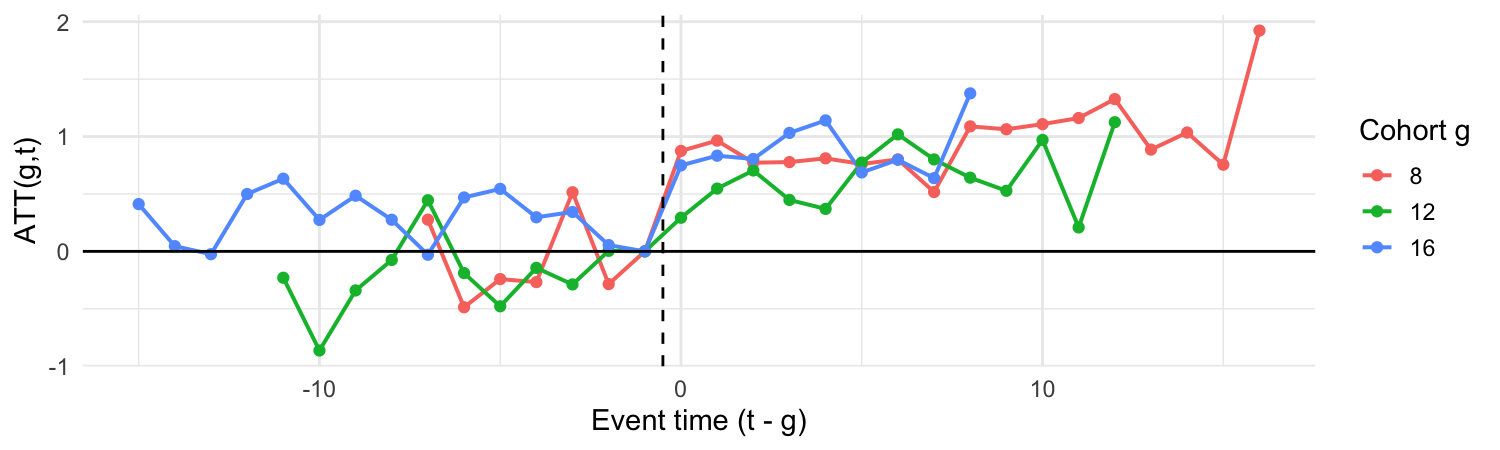
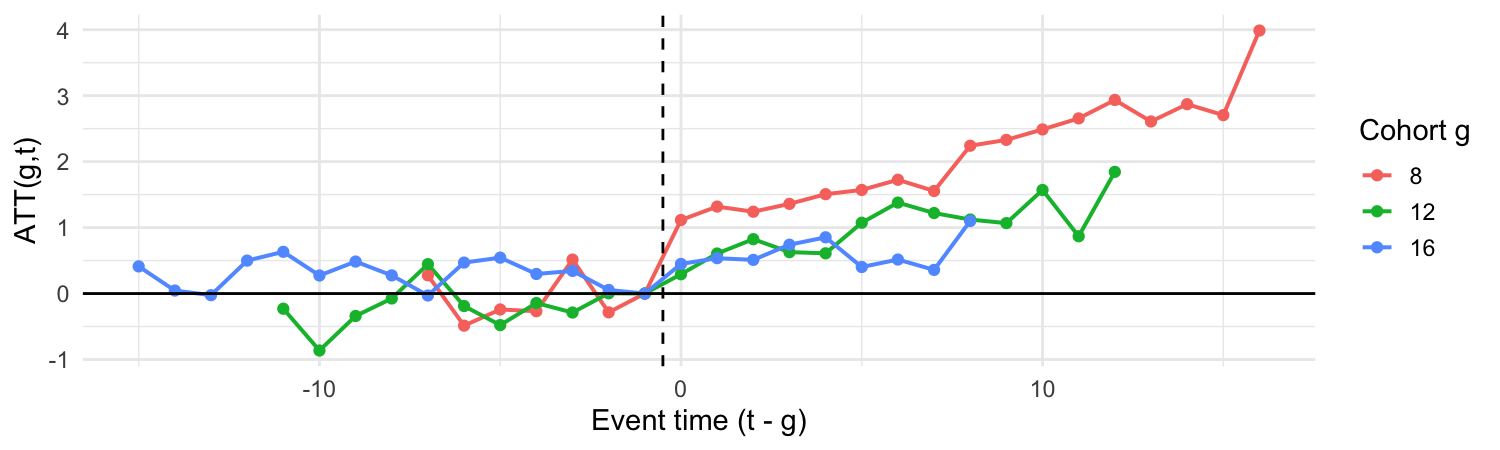
M8 review pass: amplify staggered-DiD bias, clarify SC, fix back-links, polish prose
After review:
- Staggered DGP: amplify cohort and event-time heterogeneity so TWFE bias
  becomes visually obvious. Truth ~1.43, TWFE ~0.82, modern estimators
  recover the truth.
- Slide 9 (Bacon decomposition viz): rewrite as a pedagogical bar chart
  with reference lines for Truth and TWFE; relabel bars as "treated g=X,
  control g=Y" (no more cryptic "g=8 vs g=16"); group by clean vs
  forbidden 2x2s. Lead-in explicitly names what's being shown ("a
  weighted average of every 2x2 DiD").
- Slide 15: legend identifies the red line as "Treated city" and grey
  as "Donor pool"; "policy" annotation marks the treatment date.
- Slide 16: synthetic counterfactual is now plotted (treated red, synth
  blue dashed) with the formula above and a code-backup link.
- Slide 23 (policy learning): rewrite "regret bounds for these rules"
  as the more readable "near-optimal policies" with an actual
  explanation of what the bound means.
- Slide 7: DGP-code button moved to bottom-right (`.nav-btn-br`) so it
  doesn't sit alone in empty bottom-left space.
- Slide 32 (Roth pretrend backup): trim lead-in and shrink plot so the
  closing line fits.
- Backup back-links: replace auto-slug anchors (which broke on em-dash
  and apostrophe titles) with explicit `name:` anchors on every main
  slide that has a backup. All "← back" buttons now resolve.
- Apply LaTeX-in-prose-parens / LaTeX-in-`.small[]` rule across the
  deck: rewrite inline `$...$` as plain text in the CS estimator table,
[…]

Changed region(s): [[0.0307, 0.0311, 0.8893, 0.7778], [0.0307, 0.7778, 0.0613, 0.8089]]

diff --git a/module-08/slides.html b/module-08/slides.html
@@ -148,6 +148,8 @@ It's an assumption about *counterfactuals* — fundamentally untestable. We can 
 
 ---
 
+name: staggered-main
+
 # Staggered Adoption — What Changes
 
 Real rollouts don't happen all at once. Cities adopt zone-notification at different times.
@@ -156,9 +158,11 @@ Real rollouts don't happen all at once. Cities adopt zone-notification at differ
 
 Three cohorts adopt at `\(t=8, 12, 16\)`; three never adopt. The effect grows over time and is **larger for earlier-adopting cohorts**.
 
-&lt;a href="#staggered-dgp-detail" class="nav-btn"&gt;DGP code&lt;/a&gt;
+&lt;a href="#staggered-dgp-detail" class="nav-btn-br"&gt;DGP code&lt;/a&gt;
 
 ---
+
+name: twfe-main
 
 # The TWFE Estimator — Looks Innocent, Isn't
 
@@ -174,7 +178,7 @@ coef(fit_twfe)["treatedTRUE"]
 
 ```
 ## treatedTRUE 
-##   0.7426994
+##    0.822057
 ```
 
 --
@@ -192,11 +196,15 @@ The true effects are positive and grow over time. The TWFE coefficient is wrong 
 
 ---
 
+name: bacon-viz-main
+
 # Visualizing the Bacon Decomposition
+
+`\(\hat\beta_{\text{TWFE}}\)` is a **weighted average of every 2×2 DiD** in the data — each cohort vs every other cohort, plus each vs never-treated. With cohorts `\(g \in \{8, 12, 16, \infty\}\)`, that's **9 distinct 2×2 estimates**:
 
 &lt;img src="slides_files/figure-html/bacon-viz-1.png" style="display: block; margin: auto;" /&gt;
 
-Red bars: when an *already-treated* cohort serves as the comparison, you difference out a treated trend. TWFE puts weight on these.
+The **red 2×2s** use an already-treated cohort as control — they difference out a treated trend, not a counterfactual. TWFE (dotted) averages them in anyway, landing far below truth (dashed). &lt;a href="#goodman-bacon-derivation" class="inline-btn"&gt;why&lt;/a&gt;
 
 ---
 
@@ -207,10 +215,10 @@ All four heterogeneity-robust estimators solve the same problem — only use **c
 .small[
 | Estimator | Year | Core idea | R package |
 |---|---|---|---|
-| **Callaway &amp; Sant'Anna** | 2021 | Group-time ATT `\((g, t)\)`, then aggregate | `did` |
+| **Callaway &amp; Sant'Anna** | 2021 | Group-time ATT for each cohort g and time t, then aggregate | `did` |
 | **Sun &amp; Abraham** | 2021 | Saturated event-study with cohort×event-time interactions | `fixest` (`sunab()`) |
 | **de Chaisemartin &amp; D'Haultfœuille** | 2020 | Switchers vs not-yet-switchers | `DIDmultiplegt` |
-| **Borusyak, Jaravel, Spiess** | 2024 | Impute `\(Y(0)\)` from never-treated, then average residuals | `didimputation` |
+| **Borusyak, Jaravel, Spiess** | 2024 | Impute the untreated outcome from never-treated, then average residuals | `didimputation` |
 ]
 
 .highlight-box[
@@ -218,6 +226,8 @@ All four converge in simple cases. Pick one, report the event-study plot, and ch
 ]
 
 ---
+
+name: cs-main
 
 # Callaway-Sant'Anna in Practice
 
@@ -241,10 +251,10 @@ Pretrend tests have low power. What if parallel trends is "almost but not quite"
 --
 
 Two common restrictions:
-- **Smoothness ($M$):** the post-treatment violation can be at most `\(M\)` times larger than the largest pre-treatment violation.
+- **Smoothness, parameter M:** the post-treatment violation can be at most M times larger than the largest pre-treatment violation.
 - **Relative magnitudes:** the post-period violation cannot exceed the worst pre-period violation.
 
-The output is a *sensitivity plot*: the CI grows as you allow more violation. If your conclusion survives plausible `\(M\)`, you're robust.
+The output is a *sensitivity plot*: the CI grows as you allow more violation. If your conclusion survives plausible M, you're robust.
 
 &lt;a href="#honest-did-detail" class="nav-btn"&gt;visualization&lt;/a&gt;
 
@@ -258,10 +268,10 @@ Three city cohorts adopt zone-notification at `\(t=8, 12, 16\)`. The true effect
 
 |Estimator                 | Estimate|
 |:-------------------------|--------:|
-|Truth                     |    0.869|
-|TWFE (biased)             |    0.743|
-|Sun-Abraham               |    0.849|
-|Callaway-Sant'Anna (hand) |    0.849|
+|Truth                     |    1.425|
+|TWFE (biased)             |    0.822|
+|Sun-Abraham               |    1.405|
+|Callaway-Sant'Anna (hand) |    1.405|
 ]
 
 TWFE is downward-biased — early cohorts (with the largest effects) get re-used as controls for later cohorts, dragging the estimate down. CS and SA recover the truth.
@@ -284,35 +294,19 @@ No single donor matches. A **convex combination** might.
 
 ---
 
+name: sc-est-main
+
 # Synthetic Control: The Estimator
 
-Choose weights `\(w_j \ge 0\)` with `\(\sum_j w_j = 1\)` to match the treated unit's *pre-treatment* outcomes:
+Pick weights `\(w_j \ge 0\)` with `\(\sum_j w_j = 1\)` to match the treated unit's *pre-treatment* outcomes — a **convex combination** of donors:
 
-`$$\min_{w} \sum_{t &lt; T_0} \left( Y_{1t} - \sum_{j \ge 2} w_j Y_{jt} \right)^2 \;\; \text{s.t.}\;\; w_j \ge 0,\;\; \sum_j w_j = 1$$`
+`$$\min_{w} \sum_{t &lt; T_0} \!\left( Y_{1t} - \sum_{j \ge 2} w_j Y_{jt} \right)^{\!2} \;\;\text{s.t.}\;\; w_j \ge 0,\;\; \sum_j w_j = 1$$`
 
-.small[
 
-```r
-# NNLS-style projection on the simplex (simplified: quadprog or by hand)
-pre &lt;- 1:(t_treat - 1)
-A &lt;- donors[pre, ]; b &lt;- treated_y[pre]
-# Project to simplex via solve.QP (quadratic prog)
-library(quadprog)
-Dmat &lt;- 2 * t(A) %*% A; dvec &lt;- 2 * t(A) %*% b
-Amat &lt;- cbind(rep(1, n_donor), diag(n_donor))      # sum=1, w_j&gt;=0
-bvec &lt;- c(1, rep(0, n_donor))
-w_hat &lt;- solve.QP(Dmat, dvec, Amat, bvec, meq = 1)$solution
-synth_y &lt;- as.numeric(donors %*% w_hat)
-gap &lt;- treated_y - synth_y
-round(w_hat, 3)
-```
 
-```
-## [1] 0.329 0.175 0.282 0.140 0.008 0.000 0.028 0.038 0.000
-```
-]
+&lt;img src="slides_files/figure-html/sc-counterfactual-plot-1.png" style="display: block; margin: auto;" /&gt;
 
-The fitted weights match true weights closely on donors 1-3.
+The blue dashed line is the synthetic counterfactual: `\(\sum_j \hat w_j Y_{jt}\)` where the `\(\hat w\)` above are 0.33, 0.18, 0.28, 0.14, 0.03, 0.04. &lt;a href="#sc-code" class="inline-btn"&gt;code&lt;/a&gt;
 
 ---
 
@@ -326,13 +320,15 @@ The treated gap (red) drops below the placebo cloud after `\(t=21\)` — the eff
 
 ---
 
+name: sdid-main
+
 # Synthetic DiD: The Bridge
 
 Arkhangelsky et al. (2021) generalize both DiD and SC. **Synthetic DiD** uses *two* sets of weights:
 
 .blue-box[
-- **Unit weights** ($\hat\omega_i$) — like SC, match pre-treatment trajectories of donors to the treated unit.
-- **Time weights** ($\hat\lambda_t$) — match pre-treatment outcomes of the treated unit to its own post-treatment level (down-weights periods that don't look like "now").
+- **Unit weights** `\(\hat\omega_i\)` work like SC: match pre-treatment trajectories of donors to the treated unit.
+- **Time weights** `\(\hat\lambda_t\)` match pre-treatment outcomes of the treated unit to its own post-treatment level — down-weighting periods that don't look like "now".
 ]
 
 .small[
@@ -374,6 +370,8 @@ Classic approach: pre-specify subgroups, run interactions. Two problems:
 
 ---
 
+name: cf-how-main
+
 # Causal Forest — How It Works
 
 .pull-left[
@@ -398,6 +396,8 @@ The result has pointwise confidence intervals — Wager &amp; Athey prove asympt
 &lt;a href="#cf-splitting-detail" class="nav-btn"&gt;splitting algorithm&lt;/a&gt;
 
 ---
+
+name: cf-practice-main
 
 # Causal Forest in Practice — `grf`
 
@@ -431,8 +431,8 @@ Once you have `\(\hat\tau(x)\)`, you can learn a **treatment rule** `\(\pi(x) \i
 where `\(c(x)\)` is a per-unit cost (e.g., the cost of pushing a notification).
 
 .blue-box[
-- **`grf::policy_tree`** — fit a depth-$L$ decision tree over `\(X\)` that maximizes welfare. Output: an interpretable rule like *"deploy in dense cities to drivers with &lt;2 years tenure."*
-- **Athey &amp; Wager (2021):** regret bounds for these rules.
+- **`grf::policy_tree`** — fit a shallow decision tree over the covariates that maximizes estimated welfare. Output: an interpretable rule like *"deploy in dense cities to drivers with &lt;2 years tenure."*
+- **Athey &amp; Wager (2021)** prove these are **near-optimal policies**: the learned rule's welfare gets within a vanishing-with-sample-size gap of the *optimal* policy's. So the rule isn't just interpretable — it's provably close to the best rule you could have chosen if you knew the truth.
 ]
 
 This is what gets used to *deploy* the model. ATE answers "ship?". HTE answers "to whom?". Policy learning answers "**what should we actually do?**"
@@ -448,9 +448,9 @@ class: center, middle, inverse
 # Bandits — Adaptive Experimentation in One Slide
 
 .small[
-**Setup:** `\(K\)` arms (e.g., 4 ad creatives). At each step, pick one, observe reward. Goal: maximize cumulative reward, not just identify the best arm.
+**Setup:** K arms (e.g., 4 ad creatives). At each step, pick one, observe reward. Goal: maximize cumulative reward, not just identify the best arm.
 
-**Thompson Sampling** (the workhorse): maintain a posterior over each arm's reward, sample from it, play the argmax. Asymptotically optimal regret; minimal tuning.
+**Thompson Sampling** is the workhorse: maintain a posterior over each arm's reward, sample from it, play the argmax. Asymptotically optimal regret; minimal tuning.
 ]
 
 &lt;img src="slides_files/figure-html/bandit-quick-1.png" style="display: block; margin: auto;" /&gt;
@@ -461,13 +461,15 @@ class: center, middle, inverse
 
 ---
 
+name: seq-main
+
 # Sequential Testing in One Slide
 
 .small[
-**Problem:** classical `\(p\)`-values are valid only at one fixed `\(n\)`. Peeking inflates Type-I error — by `\(t=N\)`, the running `\(p\)`-value will dip below 0.05 about 30% of the time *under the null*.
+**Problem:** classical p-values are valid only at one fixed sample size. Peeking inflates Type-I error — by the end of the experiment, the running p-value will dip below 0.05 about 30% of the time *under the null*.
 
 **Two fixes used in industry:**
-- **Group-sequential / O'Brien-Fleming:** spend the `\(\alpha\)` budget on a pre-specified schedule of looks. Conservative early, normal late.
+- **Group-sequential / O'Brien-Fleming:** spend the alpha budget on a pre-specified schedule of looks. Conservative early, normal late.
 - **Always-valid CIs / mSPRT:** mixture sequential probability ratio. Confidence sequences that hold *uniformly over time*. Stop whenever you want; CIs stay valid.
 ]
 
@@ -477,7 +479,7 @@ class: center, middle, inverse
 ```
 
 .small[
-Under `\(H_0\)`, naive peeking yields ≈30% rejection rate, not 5%. mSPRT or OBF would hold this near 5%.
+Under the null, naive peeking yields ≈30% rejection rate, not 5%. mSPRT or OBF would hold this near 5%.
 ]
 
 &lt;a href="#mSPRT-detail" class="nav-btn"&gt;mSPRT formula&lt;/a&gt;
@@ -501,7 +503,7 @@ class: center, middle, inverse
 
 **Single treated unit?** → **Synthetic control** (or **SDID** if you have a moderate-size donor pool).
 
-**Want effect heterogeneity?** → **Causal forest** for `\(\hat\tau(x)\)`; **policy tree** for an interpretable deployment rule.
+**Want effect heterogeneity?** → **Causal forest** for treatment effects as a function of covariates; **policy tree** for an interpretable deployment rule.
 
 **Many arms, online learning?** → **Thompson Sampling**, *unless* you need a clean ATE.
 
@@ -521,7 +523,7 @@ class: center, middle, inverse
 ]
 
 .blue-box[
-**"How do you get heterogeneous treatment effects?"** Causal forest from `grf`. Honest splitting prevents over-fit. Aggregate to ATE for sanity-check; predict `\(\hat\tau(x)\)` for new units; feed into a policy tree if a deployment rule is needed.
+**"How do you get heterogeneous treatment effects?"** Causal forest from `grf`. Honest splitting prevents over-fit. Aggregate to ATE for sanity-check; predict per-unit treatment effects from the covariates; feed into a policy tree if a deployment rule is needed.
 ]
 
 .highlight-box[
@@ -561,13 +563,11 @@ name: pretrend-power-detail
 
 # Backup: The Roth (2022) Pretrend Critique
 
-The standard pretrend test asks: do the pre-treatment leads have `\(p &gt; 0.05\)`? Failing to reject is taken as evidence parallel trends holds.
-
-**The problem:** these tests have low power against linear (or near-linear) violations — exactly the kind that would bias the post-treatment estimate.
+**The standard pretrend test** has low power against linear (or near-linear) violations — exactly the kind that would bias the post-treatment estimate.
 
 &lt;img src="slides_files/figure-html/roth-power-1.png" style="display: block; margin: auto;" /&gt;
 
-Even a *meaningful* linear violation is missed most of the time. Roth's recommendation: use Honest DiD bounds rather than relying on the pretrend test.
+A meaningful linear violation is missed most of the time. Roth's recommendation: use Honest DiD bounds, not the pretrend test.
 
 &lt;a href="#parallel-trends-main" class="nav-btn"&gt;← back&lt;/a&gt;
 
@@ -589,8 +589,8 @@ panel &lt;- expand_grid(city = 1:n_cities, t = 1:n_t) |&gt;
   mutate(
     treated = t &gt;= g,
     # heterogeneous, time-varying effect: bigger for earlier cohorts
-    eff = if_else(treated, 0.6 * (1 + 0.05 * (t - g)) *
-                            (1 + 0.3 * (g == 8) - 0.2 * (g == 16)), 0),
+    eff = if_else(treated, 0.6 * (1 + 0.15 * (t - g)) *
+                            (1 + 0.7 * (g == 8) - 0.7 * (g == 16)), 0),
     y = 5 + 0.05 * t + city * 0.1 + eff + rnorm(n(), 0, 0.3)
   )
 ```
@@ -598,7 +598,7 @@ panel &lt;- expand_grid(city = 1:n_cities, t = 1:n_t) |&gt;
 
 Three cohorts adopt at `\(t = 8, 12, 16\)`; three never adopt. Effect grows over time and is **larger for earlier cohorts** — the classic case where TWFE breaks.
 
-&lt;a href="#staggered-adoption-what-changes" class="nav-btn"&gt;← back&lt;/a&gt;
+&lt;a href="#staggered-main" class="nav-btn"&gt;← back&lt;/a&gt;
 
 ---
 name: goodman-bacon-derivation
@@ -621,7 +621,7 @@ where each `\(\widehat{\text{ATT}}_k\)` is a 2×2 DiD between two cohorts (or a 
 If treatment effects grow over time, this 2×2 gets a *negative* contribution. TWFE's "weighted average" puts positive weight on this, biasing `\(\hat\beta\)` downward.
 ]
 
-&lt;a href="#the-twfe-estimator-looks-innocent-isnt" class="nav-btn"&gt;← back&lt;/a&gt;
+&lt;a href="#twfe-main" class="nav-btn"&gt;← back&lt;/a&gt;
 
 ---
 name: honest-did-detail
@@ -635,6 +635,34 @@ The robust CI grows as you allow more violation. The point estimate stays — on
 The smallest `\(M\)` at which the CI crosses zero is the **breakdown value** — how much PT violation you'd need to tolerate before your conclusion flips.
 
 &lt;a href="#honest-did-main" class="nav-btn"&gt;← back&lt;/a&gt;
+
+---
+name: sc-code
+
+# Backup: Synthetic Control via `solve.QP`
+
+.small[
+
+```r
+library(quadprog)
+pre &lt;- 1:(t_treat - 1)
+A &lt;- donors[pre, ]; b &lt;- treated_y[pre]
+
+# Quadratic program:
+#   minimize  || A w - b ||^2     subject to  w_j &gt;= 0,  sum_j w_j = 1
+Dmat &lt;- 2 * t(A) %*% A
+dvec &lt;- 2 * t(A) %*% b
+Amat &lt;- cbind(rep(1, n_donor), diag(n_donor))   # constraints stacked
+bvec &lt;- c(1, rep(0, n_donor))                   # 1 for sum=1, 0 for w &gt;= 0
+w_hat   &lt;- solve.QP(Dmat, dvec, Amat, bvec, meq = 1)$solution
+synth_y &lt;- as.numeric(donors %*% w_hat)
+gap     &lt;- treated_y - synth_y
+```
+]
+
+`solve.QP` minimizes `\(\frac{1}{2} w^\top D w - d^\top w\)` subject to `\(A^\top w \ge b\)`, with `meq` flagging the first constraint as equality. Production code uses `Synth::synth()`, which adds a covariate-importance V-matrix and a nested optimization.
+
+&lt;a href="#sc-est-main" class="nav-btn"&gt;← back&lt;/a&gt;
 
 ---
 name: sdid-detail
@@ -655,7 +683,7 @@ where `\(\hat\omega_i\)` are unit weights from a regularized SC-style fit, and `
 
 R implementation: `synthdid::synthdid_estimate()`. The package returns the estimate, jackknife SE, and a built-in SC vs DiD vs SDID comparison plot.
 
-&lt;a href="#synthetic-did-the-bridge" class="nav-btn"&gt;← back&lt;/a&gt;
+&lt;a href="#sdid-main" class="nav-btn"&gt;← back&lt;/a&gt;
 
 ---
 name: cs-code
@@ -680,7 +708,7 @@ att_gt &lt;- cohort_means |&gt; left_join(never_means, by = "t") |&gt;
 
 This is the simplest version: each cohort vs never-treated, anchored at `\(t = g - 1\)`. Production CS adds: not-yet-treated (vs only never-treated) controls, doubly-robust adjustment, and influence-function based standard errors. The `did` package implements all three.
 
-&lt;a href="#callaway-santanna-in-practice" class="nav-btn"&gt;← back&lt;/a&gt;
+&lt;a href="#cs-main" class="nav-btn"&gt;← back&lt;/a&gt;
 
 ---
 name: cf-dgp
@@ -705,7 +733,7 @@ Y &lt;- 700 + 50 * X$age * 0.5 + true_tau * W + rnorm(n, 0, 80)
 
 The HTE pattern: drivers in dense cities benefit most ($+\$60$/wk per density unit); long-tenured drivers benefit less (already routing efficiently). The forest must recover this without us specifying the functional form.
 
-&lt;a href="#causal-forest-in-practice-grf" class="nav-btn"&gt;← back&lt;/a&gt;
+&lt;a href="#cf-practice-main" class="nav-btn"&gt;← back&lt;/a&gt;
 
 ---
 name: cf-splitting-detail
@@ -726,7 +754,7 @@ where `\(\hat\tau_L, \hat\tau_R\)` are local treatment-effect estimates inside e
 **Honesty:** within a tree, sample-splitting separates the data used to *grow* the tree from the data used to *estimate `\(\hat\tau\)` inside leaves*. Without this, the same noise that drove the split would inflate the estimated effect inside the leaf — exactly the over-fit that vanilla trees suffer.
 ]
 
-&lt;a href="#causal-forest-how-it-works" class="nav-btn"&gt;← back&lt;/a&gt;
+&lt;a href="#cf-how-main" class="nav-btn"&gt;← back&lt;/a&gt;
 
 ---
 name: mSPRT-detail
@@ -749,7 +777,7 @@ for a chosen mixing scale `\(\rho\)`. The CI shrinks like `\(\sqrt{(\log t) / t}
 **Used in industry by:** Optimizely (mSPRT), Microsoft (group-sequential + mSPRT), Netflix (sequential testing platform).
 ]
 
-&lt;a href="#sequential-testing-in-one-slide" class="nav-btn"&gt;← back&lt;/a&gt;
+&lt;a href="#seq-main" class="nav-btn"&gt;← back&lt;/a&gt;
     </textarea>
 <style data-target="print-only">@media screen {.remark-slide-container{display:block;}.remark-slide-scaler{box-shadow:none;}}</style>
 <script src="https://remarkjs.com/downloads/remark-latest.min.js"></script>
